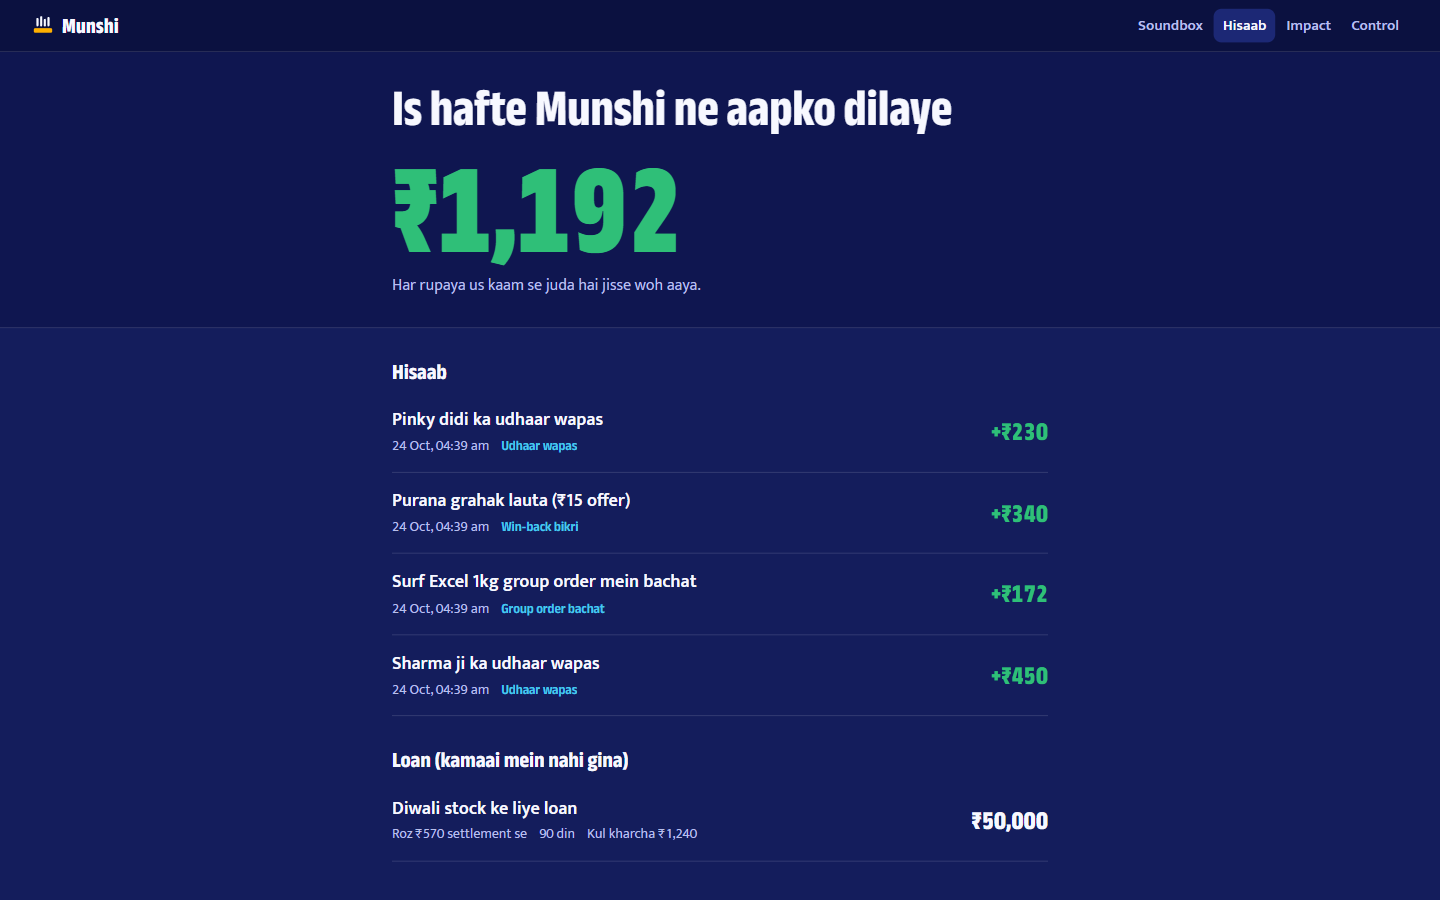
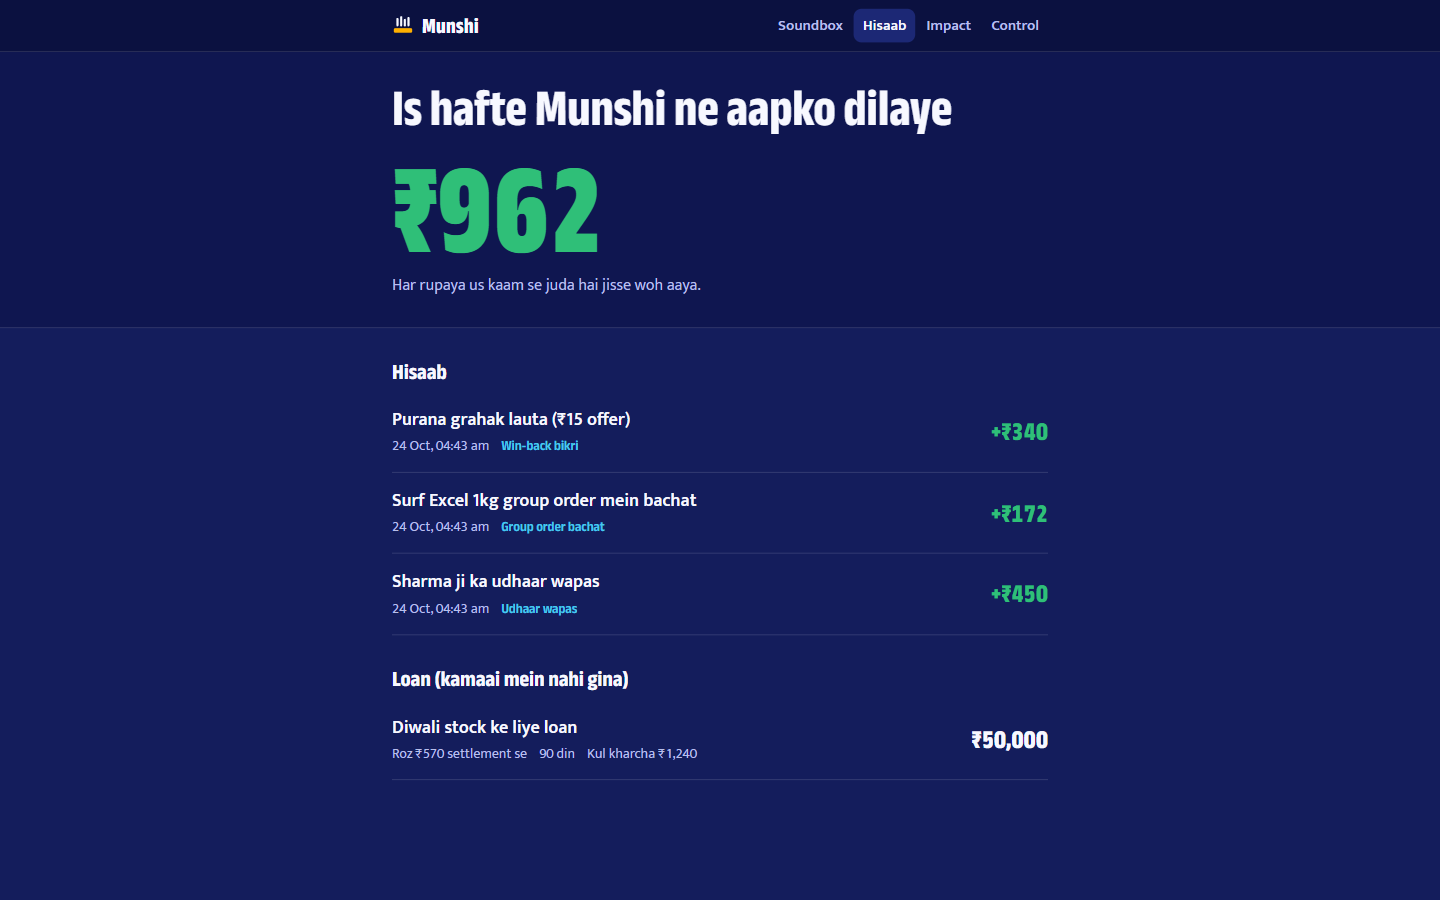
fix: amount punctuation at text size, loans white on impact, bar aligned to content, neutral app wording

diff --git a/web/Impact.tsx b/web/Impact.tsx
@@ -17,15 +17,16 @@ export function Impact() {
   }, [load]);
 
   const w = data?.week;
-  const rows: Array<[string, number | undefined, 'money' | 'count']> = [
+  // Green is money in; loans are borrowed, so they render white like counts.
+  const rows: Array<[string, number | undefined, 'money' | 'loan' | 'count']> = [
     ['Udhaar recovered', w?.recovered, 'money'],
     ['Group-buy savings', w?.groupSavings, 'money'],
     ['Win-back sales', w?.winbackSales, 'money'],
-    ['Merchant loans disbursed', w?.loanGmv, 'money'],
-    ['Customers reached in the Paytm app', w?.offersDelivered, 'count'],
+    ['Merchant loans disbursed', w?.loanGmv, 'loan'],
+    ['Customers reached with app offers', w?.offersDelivered, 'count'],
     ['Actions approved by the merchant', w?.actions, 'count'],
   ];
-  const fmt = (v: number, kind: 'money' | 'count') => (kind === 'money' ? rupees(v) : count(v));
+  const fmt = (v: number, kind: 'money' | 'loan' | 'count') => (kind === 'count' ? count(v) : rupees(v));
 
   return (
     <div className="shell">
@@ -48,7 +49,7 @@ export function Impact() {
             <li key={label}>
               <span className="label">{label}</span>
               <span className="here num">{v === undefined ? '—' : fmt(v, kind)}</span>
-              <span className={`amt num${kind === 'count' ? ' plain' : ''}`}>{v === undefined ? '—' : fmt(v * n, kind)}</span>
+              <span className={`amt num${kind === 'money' ? '' : ' plain'}`}>{v === undefined ? '—' : fmt(v * n, kind)}</span>
             </li>
           ))}
         </ul>

diff --git a/web/ui.tsx b/web/ui.tsx
@@ -67,10 +67,14 @@ export function Caption({ text, tone, run, step = 300 }: { text: string; tone: T
       <p className="caption-strip">
         {words.map((w, k) => {
           if (/^\s+$/.test(w)) return <span key={k}>{w}</span>;
-          const isAmt = /₹[\d,]+/.test(w);
-          const big = isAmt && !bigUsed;
-          if (big) bigUsed = true;
-          return <span key={k} className={`word${isAmt ? ' amt num' : ''}${big ? ' big' : ''}`} style={{ ['--i' as any]: i++ }}>{w}</span>;
+          // Split "₹924." so only the figure is styled; punctuation stays at text size.
+          const parts = w.split(/(₹[\d,]*\d)/).filter(Boolean);
+          return parts.map((part, j) => {
+            const isAmt = /^₹[\d,]*\d$/.test(part);
+            const big = isAmt && !bigUsed;
+            if (big) bigUsed = true;
+            return <span key={`${k}-${j}`} className={`word${isAmt ? ' amt num' : ''}${big ? ' big' : ''}`} style={{ ['--i' as any]: i++ }}>{part}</span>;
+          });
         })}
       </p>
     </div>

diff --git a/web/styles.css b/web/styles.css
@@ -200,7 +200,7 @@ button, input, select { font: inherit; color: inherit; }
 .gate-cta small { text-align: center; color: var(--on-indigo-dim); font-size: 14px; }
 
 /* ---------- Indigo working screens (ledger, control, impact) ---------- */
-.shell { min-height: 100dvh; background: var(--indigo-800); }
+.shell { --bar-max: 720px; min-height: 100dvh; background: var(--indigo-800); }
 .wrap { max-width: 720px; margin: 0 auto; padding: 0 var(--gutter); }
 .masthead { background: var(--indigo-900); padding: 26px 0 30px; border-bottom: 1px solid var(--indigo-rule); }
 .masthead h1 { margin: 0; font-family: var(--font-caption); font-stretch: 80%; font-weight: 700; font-size: var(--caption-lg); line-height: 1.1; text-wrap: balance; }
